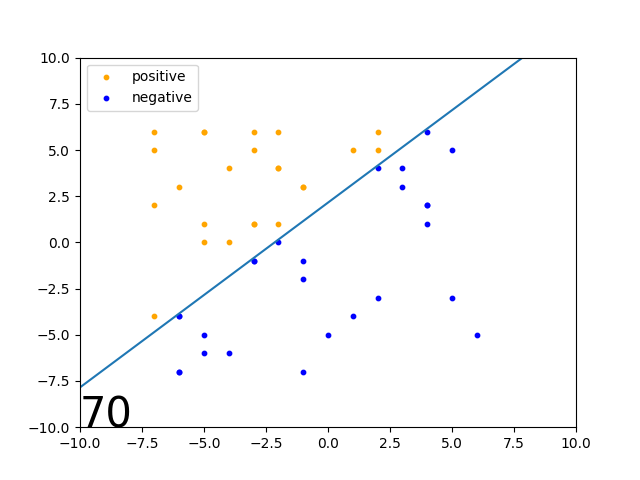
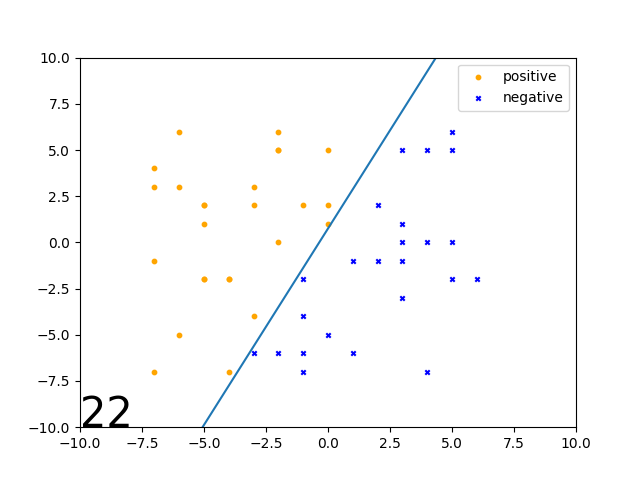
散布図のmarkerを変更

diff --git a/perceptron.py b/perceptron.py
@@ -66,8 +66,8 @@ def make_gragh(nowW,isFinal = False):
     plt.plot(x_line,y_line)
 
     #散布図
-    plt.scatter(X0,Y0,s=10,label="positive",c = "orange")
-    plt.scatter(X1,Y1,s=10,label="negative", c = "blue")
+    plt.scatter(X0,Y0,s=10,label="positive",c = "orange", marker = "o")
+    plt.scatter(X1,Y1,s=10,label="negative", c = "blue", marker = "x")
     plt.ylim(-10,10)
     plt.xlim(-10,10)
     plt.legend()
